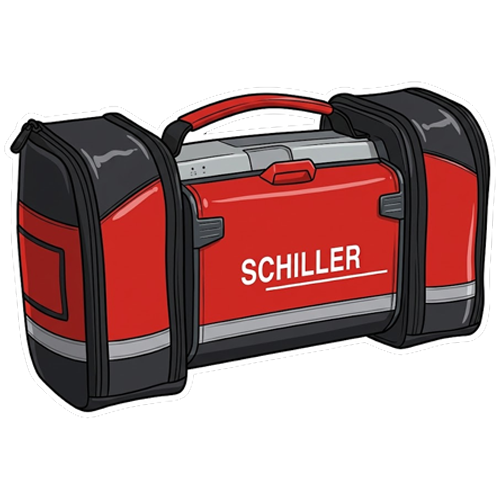
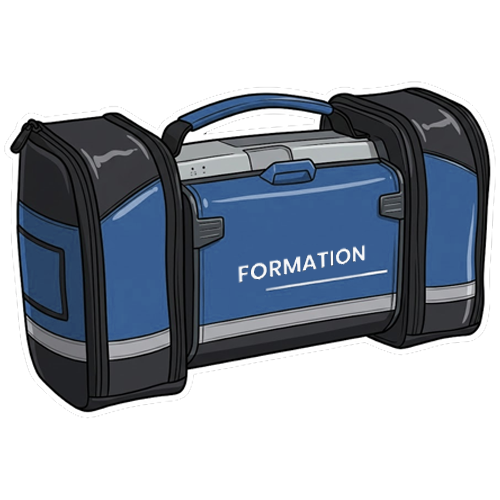
feat(assets): integration du visuel officiel de la sacoche moniteur defibrillateur de formation

diff --git a/js/logistique.js b/js/logistique.js
@@ -1,4 +1,4 @@
-/**
+/**
  * PROTEC LIVE - MODULE LOGISTIQUE & CENTRALE D'ACHATS PROTECTION CIVILE
  * 
  * Fonctionne comme une véritable boutique en ligne e-commerce :
@@ -805,7 +805,7 @@ window.ProtecLogistique = {
       image: 'images/equipements/moniteur_t7.png',
       price: 2600,
       unit: 'appareil complet',
-      badge: 'Simulation Médicale',
+      badge: 'Formation • Simulation',
       badgeColor: 'bg-purple-100 text-purple-900 border-purple-300',
       desc: 'Moniteur-défibrillateur de simulation Touch 7 connecté en Bluetooth à la tablette du formateur. Permet de générer des scénarios ECG dynamiques (FV, TV, asystolie), piloter les constantes (SpO2, NIBP) et simuler des bilans réalistes pour les formations PSE.',
       usage: 'Simulation haute fidélité pour les formations PSE1, PSE2 et recyclages opérationnels.'
